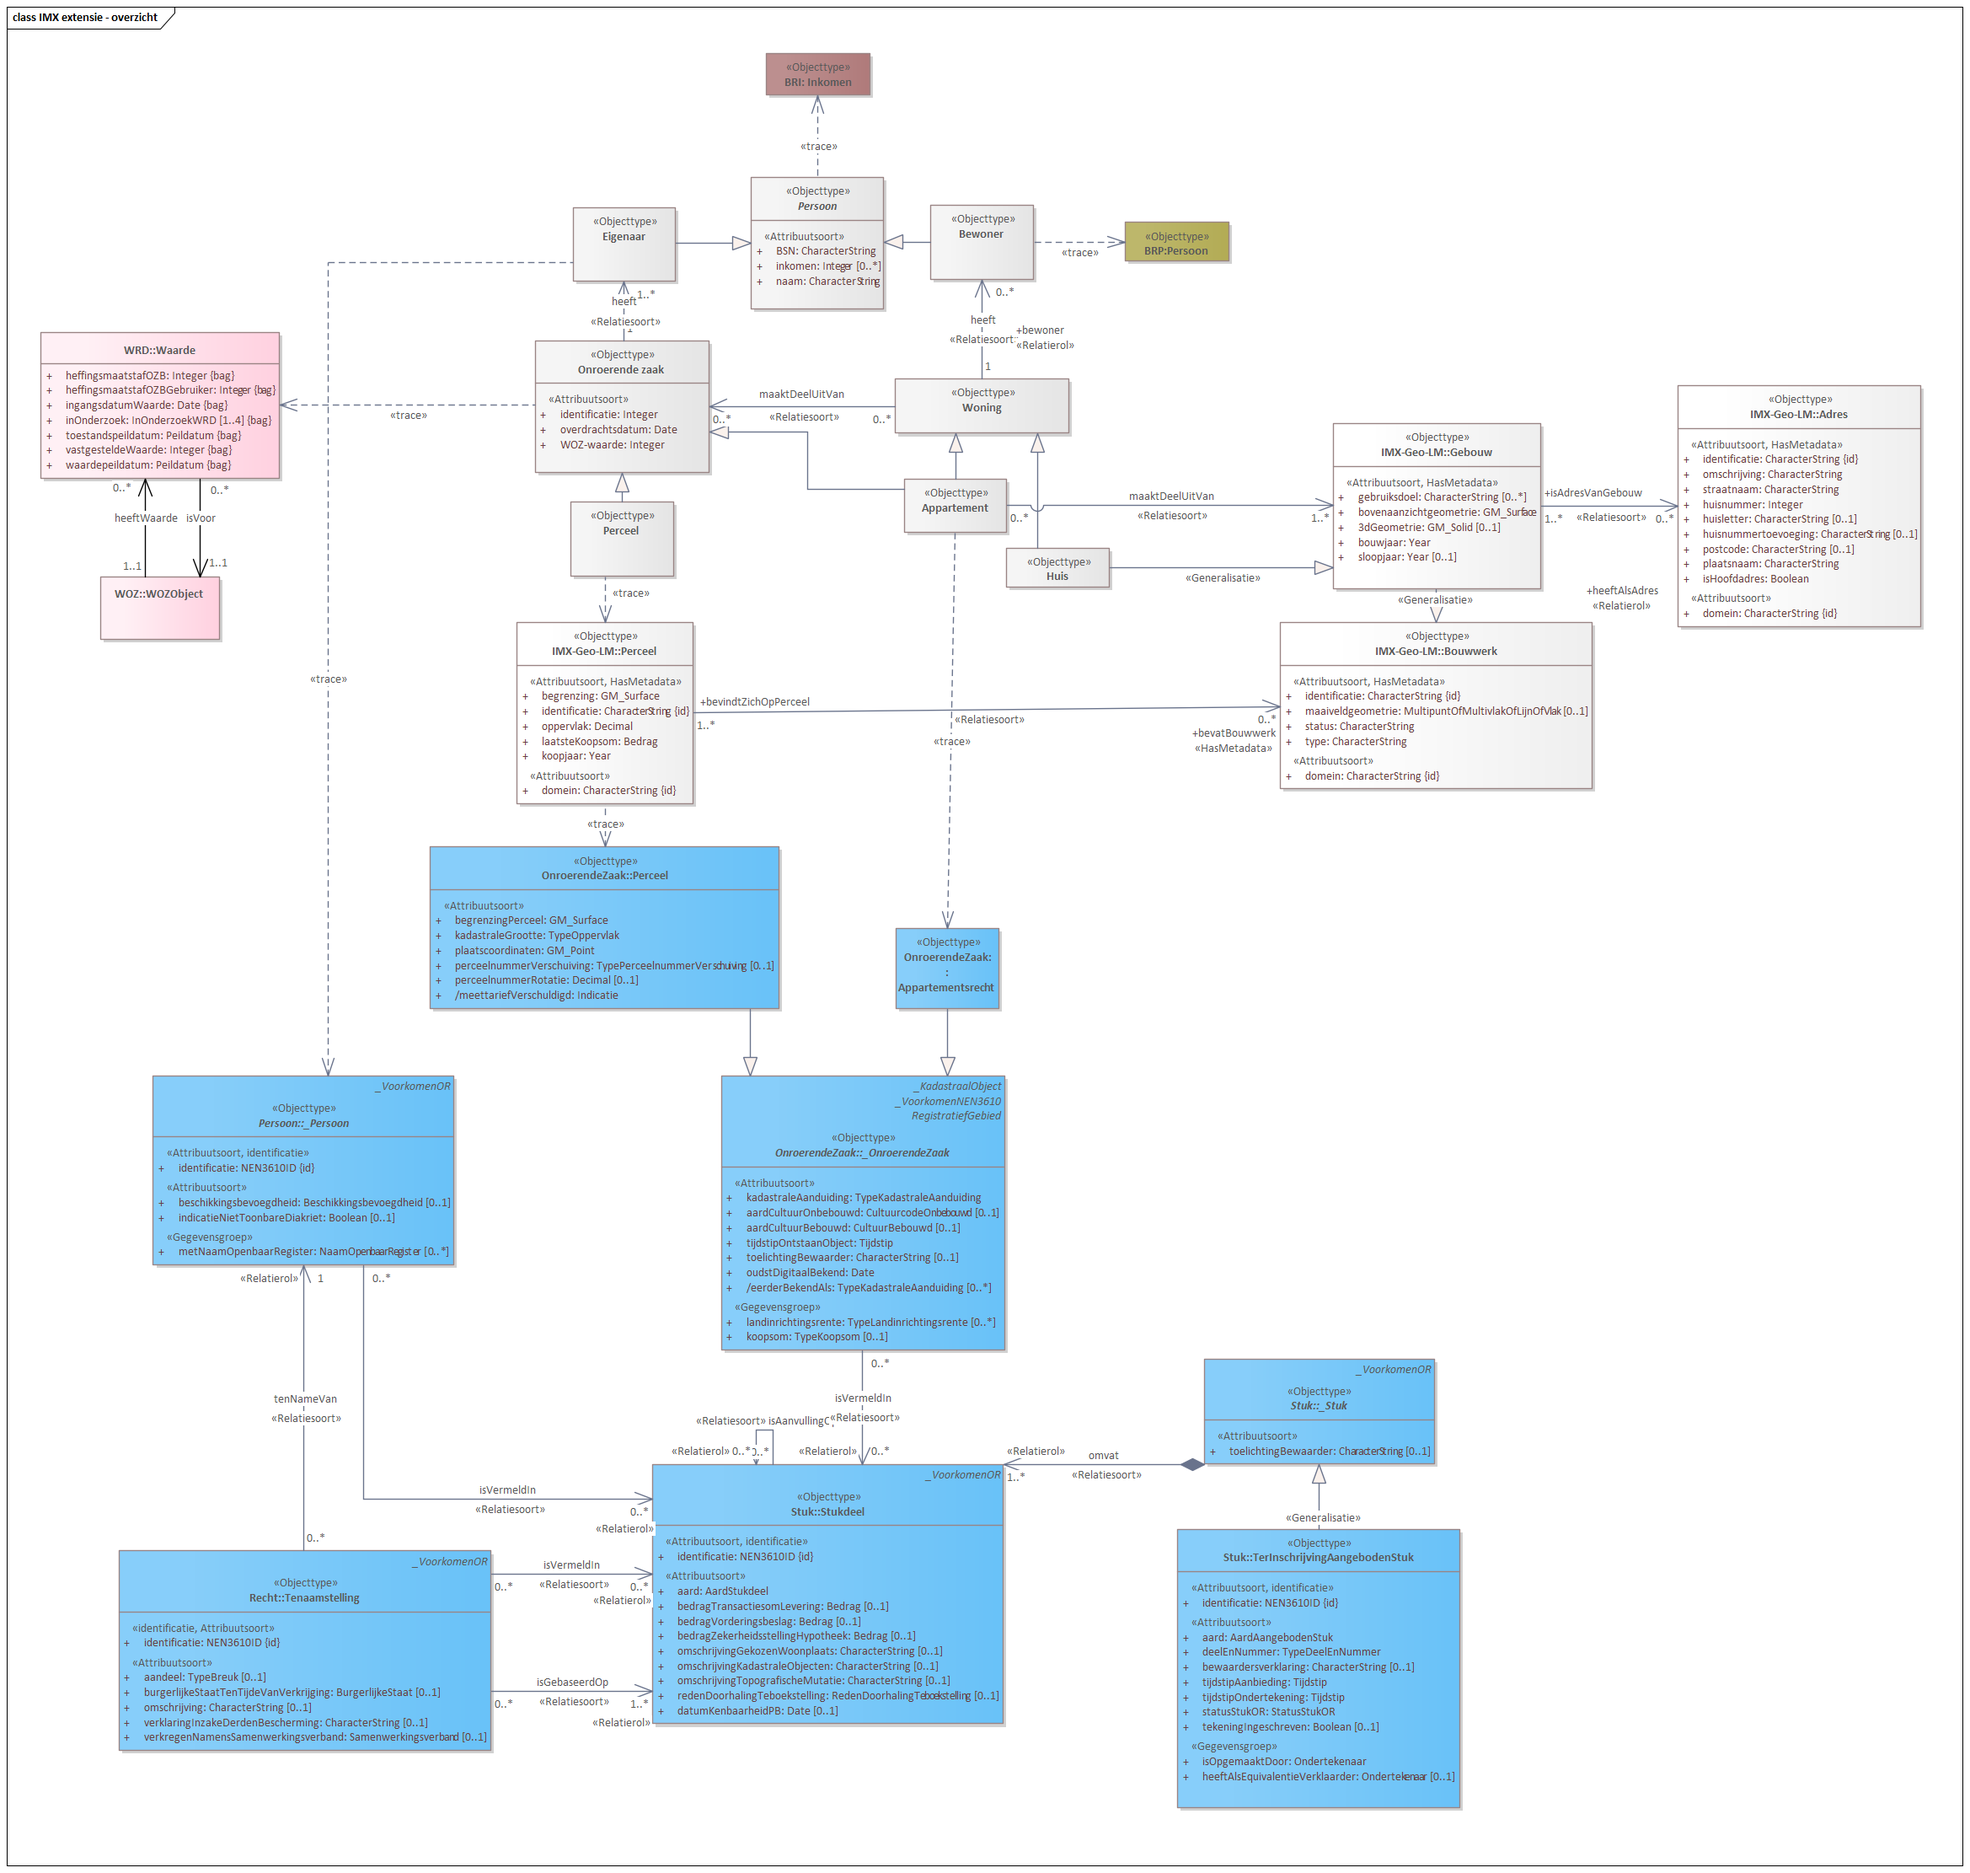
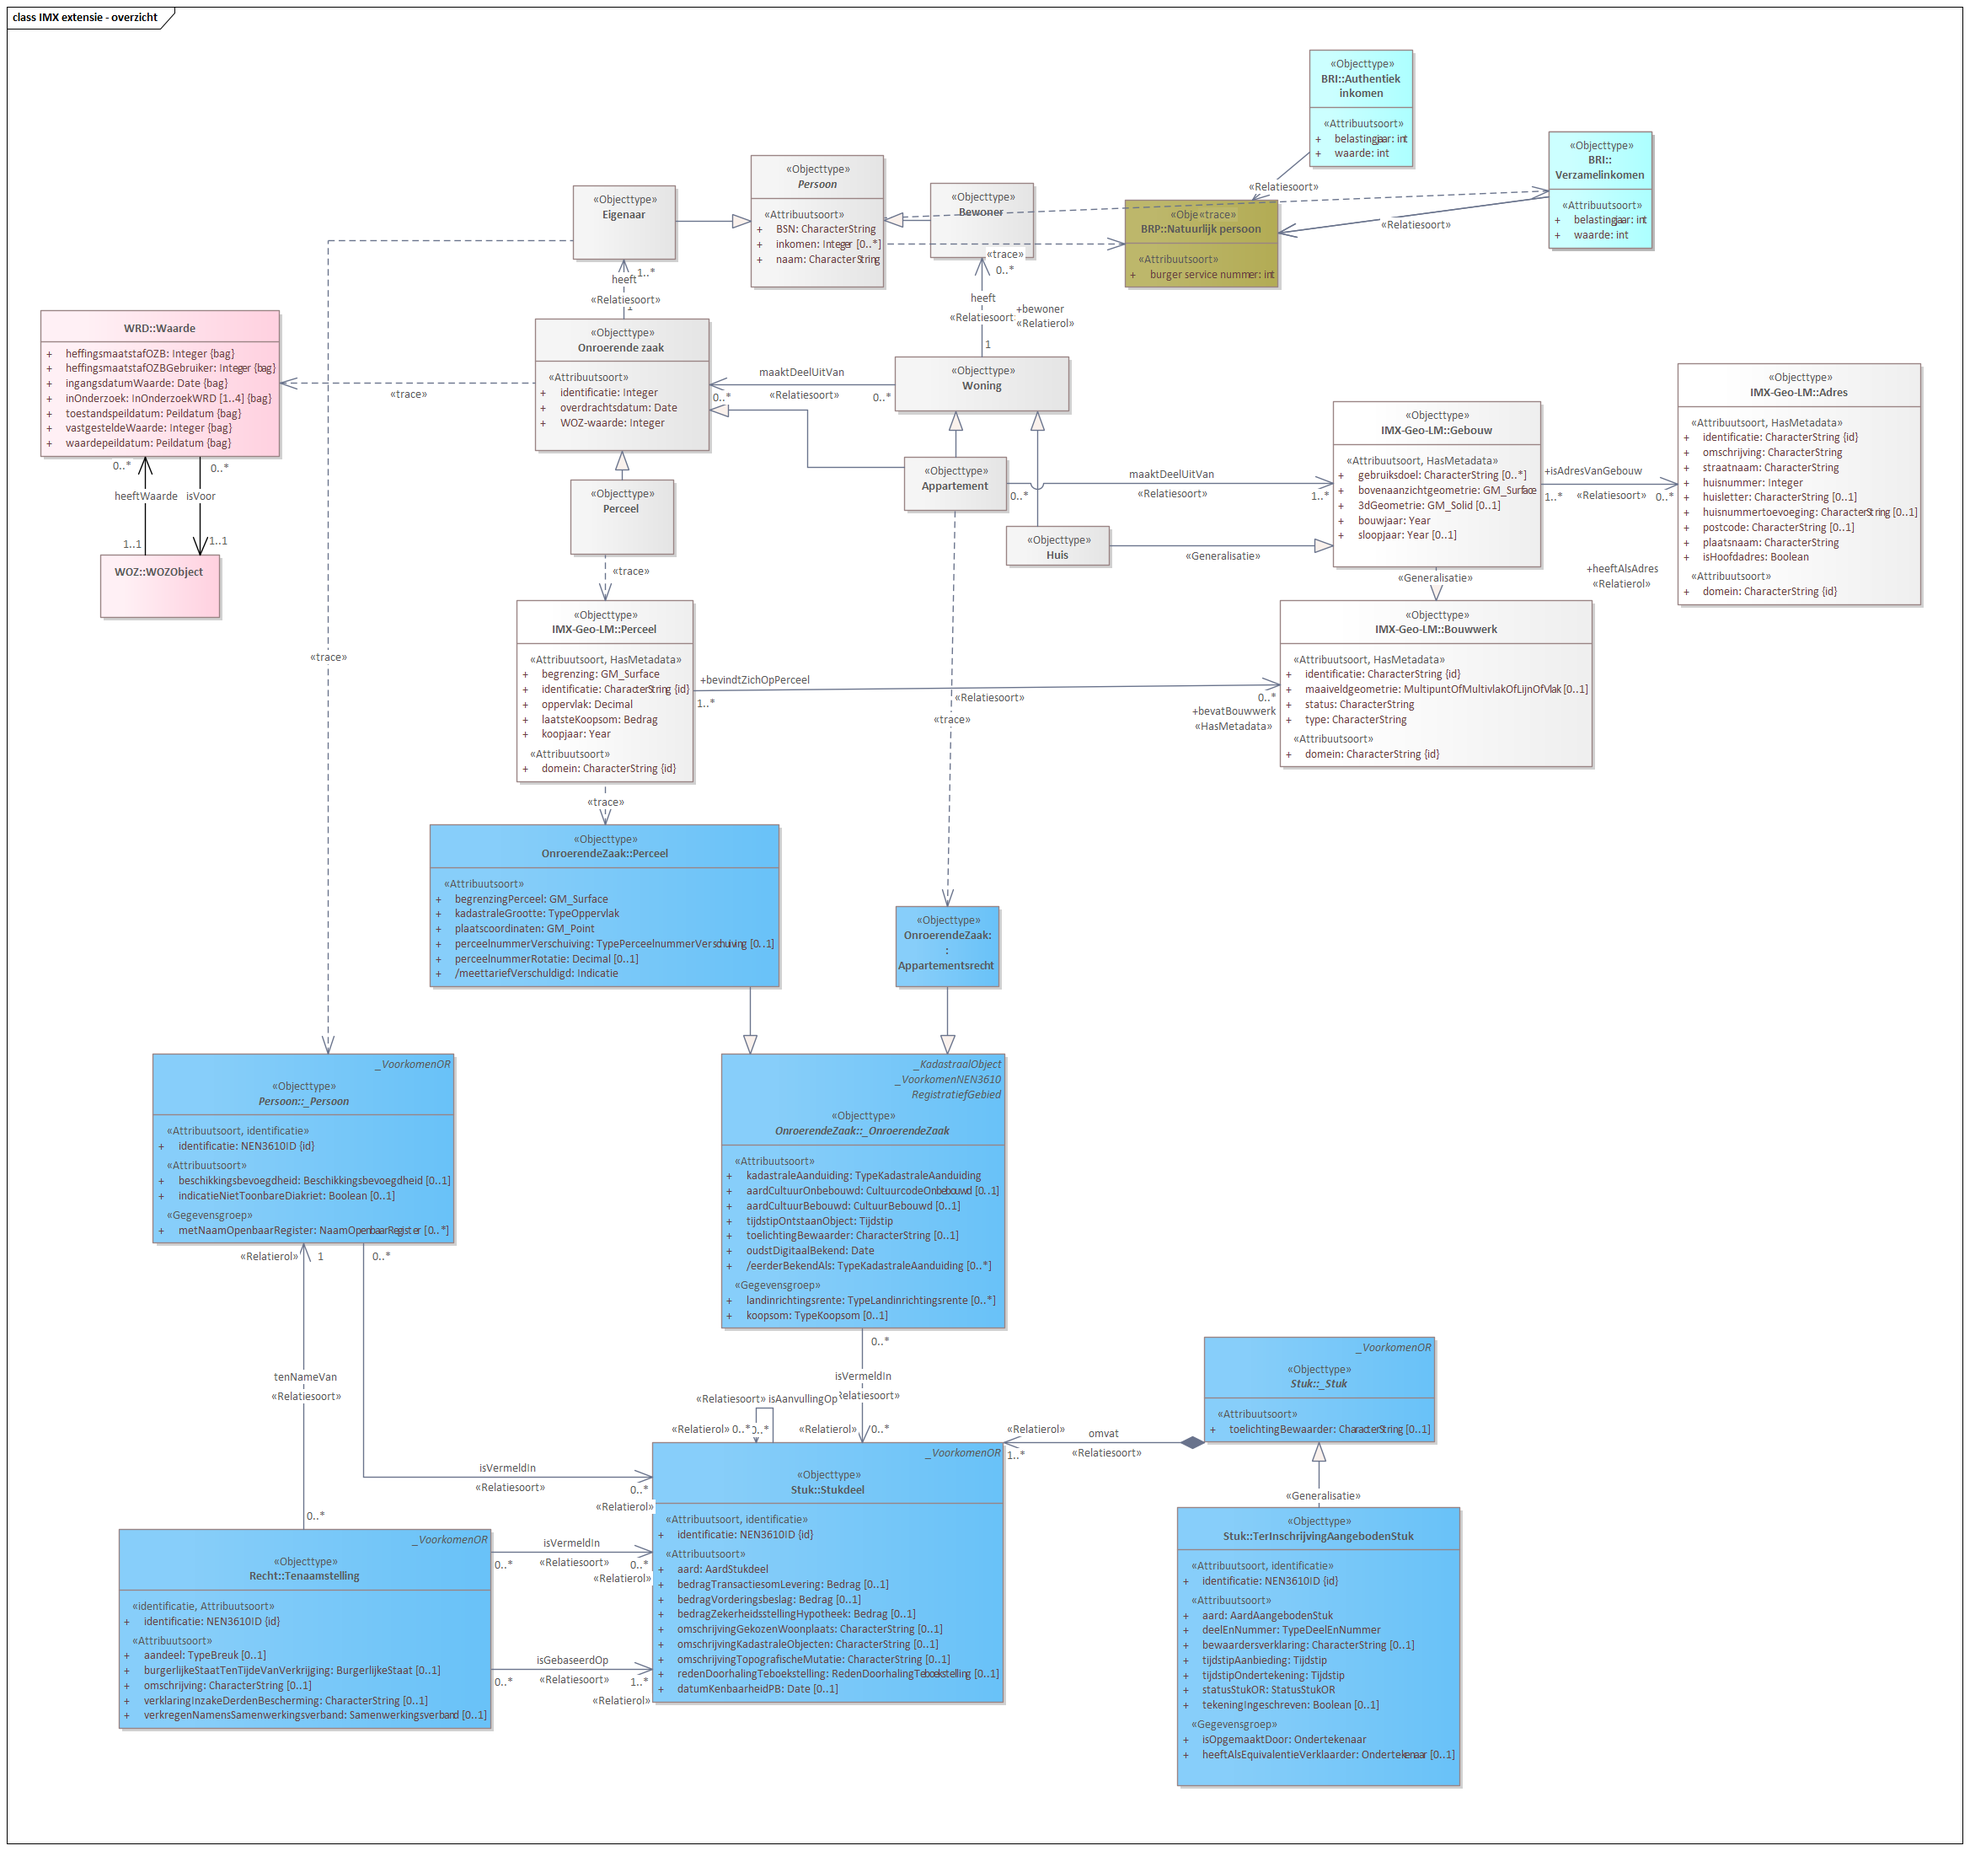
MIMCM-IMXDigilab-1.0-0-20231128-20231128-094326

diff --git a/data/imx-digilab-cat.respec.html b/data/imx-digilab-cat.respec.html
@@ -1,7 +1,7 @@
 
 <!DOCTYPE HTML><section id="cat" class="normative">
    <h2>Gegevensdefinitie</h2>
-   <!--MIMCM-IMXDigilab-1.0-0-20231128-20231128-093201 imvertor 2.0.0--><a class="anchor" id="global_package_InkomensafhankelijkeHuursverhoging"></a><section id="global_package_InkomensafhankelijkeHuursverhoging">
+   <!--MIMCM-IMXDigilab-1.0-0-20231128-20231128-094326 imvertor 2.0.0--><a class="anchor" id="global_package_InkomensafhankelijkeHuursverhoging"></a><section id="global_package_InkomensafhankelijkeHuursverhoging">
       <h3>Domein   Inkomensafhankelijke huursverhoging</h3>
       <section id="EAID_E1D40597_044B_4576_993B_D118A88B1844">
          <h4>   Inkomensafhankelijke huursverhoging - overzicht</h4>
@@ -1203,7 +1203,7 @@
       <h3>Domein   IMX extensie</h3>
       <section id="EAID_354A308E_EC56_463c_872F_C654818040C5">
          <h4>   IMX extensie - overzicht</h4>
-         <div class="imageinfo overview"><img src="data/Images/EAID_354A308E_EC56_463c_872F_C654818040C5.png" usemap="#imagemap-EAID_354A308E_EC56_463c_872F_C654818040C5" alt="Diagram &#xA;                        &#xA;                     "><map name="imagemap-EAID_354A308E_EC56_463c_872F_C654818040C5"><area shape="rect" alt="BRI: Inkomen" coords="909,63,1033,113" href="#graph_EAID_A4A2B5AA_F7D7_45fe_BF8E_69B3FBD9536E"><area shape="rect" alt="Persoon" coords="891,210,1049,367" href="#graph_EAID_77C05A32_1FCB_4596_AA1A_6EB78A5305B3"><area shape="rect" alt="Eigenaar" coords="680,246,802,334" href="#graph_EAID_7CAA0575_2AB2_460e_BE89_667DFEAF95C2"><area shape="rect" alt="Bewoner" coords="1104,243,1227,332" href="#graph_EAID_08F9B62A_8946_433a_AF6F_79D96EBBE327"><area shape="rect" alt="BRP:Persoon" coords="1335,263,1459,310" href="#graph_EAID_1AFE11A6_884A_4c2e_80F3_B653BA667EB7"><area shape="rect" alt="Huis" coords="1194,650,1317,697" href="#graph_EAID_6C86362C_775A_4448_BA53_2CE8EF9E6DDA"><area shape="rect" alt="Appartement" coords="1073,568,1195,632" href="#graph_EAID_4783E668_1C36_4cdb_AF6B_3682E5523703"><area shape="rect" alt="Perceel" coords="677,595,800,684" href="#graph_EAID_8D13CD5B_7065_44aa_BCB3_5A3DCAE7ADD8"><area shape="rect" alt="Woning" coords="1062,449,1269,514" href="#graph_EAID_64536B56_C796_4f61_A192_B5CFD13E24D7"><area shape="rect" alt="Onroerende zaak" coords="635,404,842,561" href="#graph_EAID_F031E7AA_8B04_45e3_8A65_C4D8FDBAB956"></map><p><b>IMX extensie - overzicht</b></p>
+         <div class="imageinfo overview"><img src="data/Images/EAID_354A308E_EC56_463c_872F_C654818040C5.png" usemap="#imagemap-EAID_354A308E_EC56_463c_872F_C654818040C5" alt="Diagram &#xA;                        &#xA;                     "><map name="imagemap-EAID_354A308E_EC56_463c_872F_C654818040C5"><area shape="rect" alt="Persoon" coords="891,184,1049,341" href="#graph_EAID_77C05A32_1FCB_4596_AA1A_6EB78A5305B3"><area shape="rect" alt="Eigenaar" coords="680,220,802,308" href="#graph_EAID_7CAA0575_2AB2_460e_BE89_667DFEAF95C2"><area shape="rect" alt="Bewoner" coords="1104,217,1227,306" href="#graph_EAID_08F9B62A_8946_433a_AF6F_79D96EBBE327"><area shape="rect" alt="Huis" coords="1194,624,1317,671" href="#graph_EAID_6C86362C_775A_4448_BA53_2CE8EF9E6DDA"><area shape="rect" alt="Appartement" coords="1073,542,1195,606" href="#graph_EAID_4783E668_1C36_4cdb_AF6B_3682E5523703"><area shape="rect" alt="Perceel" coords="677,569,800,658" href="#graph_EAID_8D13CD5B_7065_44aa_BCB3_5A3DCAE7ADD8"><area shape="rect" alt="Woning" coords="1062,423,1269,488" href="#graph_EAID_64536B56_C796_4f61_A192_B5CFD13E24D7"><area shape="rect" alt="Onroerende zaak" coords="635,378,842,535" href="#graph_EAID_F031E7AA_8B04_45e3_8A65_C4D8FDBAB956"></map><p><b>IMX extensie - overzicht</b></p>
          </div>
       </section>
       <section id="">
@@ -1271,20 +1271,6 @@
                   <tr>
                      <th>Naam</th>
                      <td>Huurder</td>
-                  </tr>
-               </tbody>
-            </table>
-            </section>
-         <a class="anchor" id="graph_EAID_1AFE11A6_884A_4c2e_80F3_B653BA667EB7"></a><a class="anchor" id="global_class_IMXExtensie_BRPPersoon"></a><section id="global_class_IMXExtensie_BRPPersoon">
-            <h5>   BRP:Persoon</h5>
-            
-            <table style="width: 100%;">
-               <colgroup style="width: 30%;"></colgroup>
-               <colgroup style="width: 70%;"></colgroup>
-               <tbody>
-                  <tr>
-                     <th>Naam</th>
-                     <td>BRP:Persoon</td>
                   </tr>
                </tbody>
             </table>
@@ -1612,27 +1598,6 @@
             </table>
             
             </section>
-         <a class="anchor" id="graph_EAID_A4A2B5AA_F7D7_45fe_BF8E_69B3FBD9536E"></a><a class="anchor" id="global_class_IMXExtensie_BRIInkomen"></a><section id="global_class_IMXExtensie_BRIInkomen">
-            <h5>   BRI: Inkomen</h5>
-            
-            <table style="width: 100%;">
-               <colgroup style="width: 30%;"></colgroup>
-               <colgroup style="width: 70%;"></colgroup>
-               <tbody>
-                  <tr>
-                     <th>Naam</th>
-                     <td>BRI: Inkomen</td>
-                  </tr>
-                  <tr>
-                     <th>Definitie</th>
-                     <td>
-                        
-                        <p>Placeholder voor originele BRI-'inkomens' object.</p>
-                        </td>
-                  </tr>
-               </tbody>
-            </table>
-            </section>
          <a class="anchor" id="graph_EAID_B811AA87_FE94_48ab_8AF1_1B1F0769A8FF"></a><a class="anchor" id="global_class_IMXExtensie_Appartmentsrecht"></a><section id="global_class_IMXExtensie_Appartmentsrecht">
             <h5>   Appartmentsrecht</h5>
             
@@ -1939,7 +1904,6 @@
                   </table>
                   </div>
                </section>
-            
             
             
             
